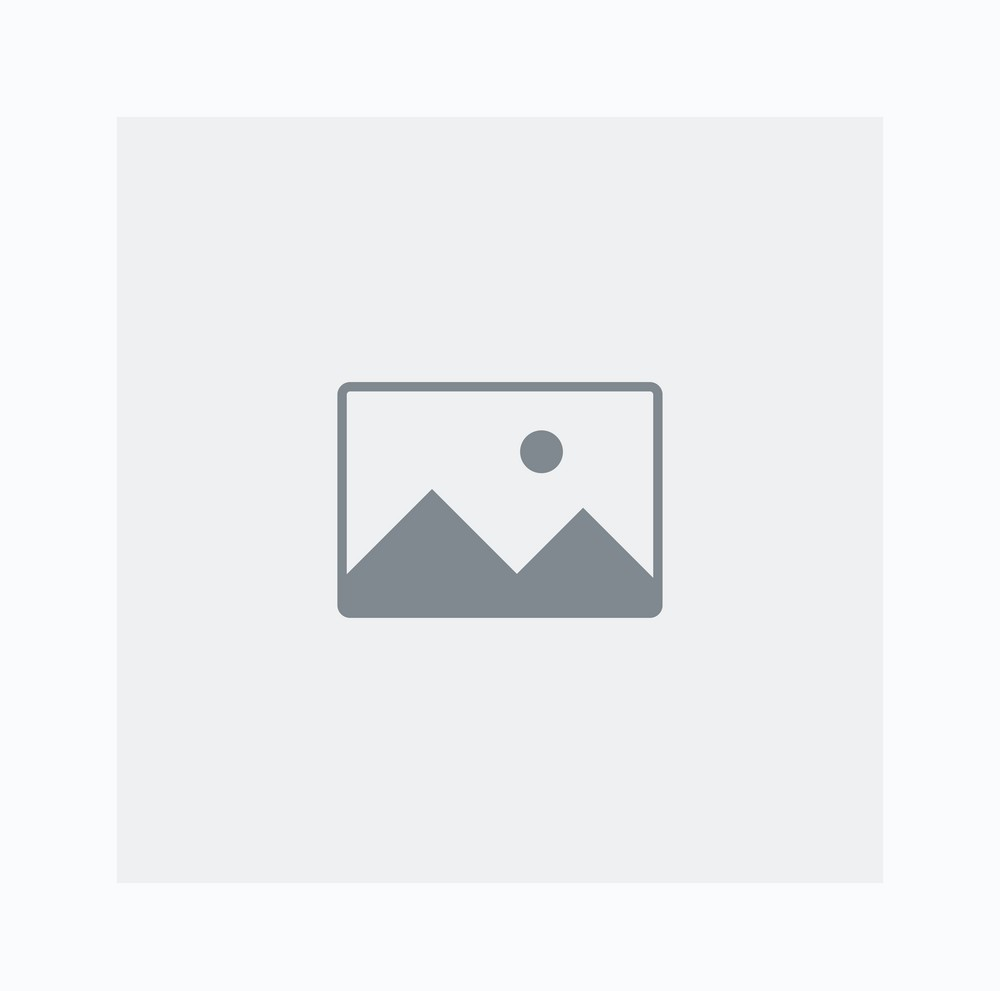
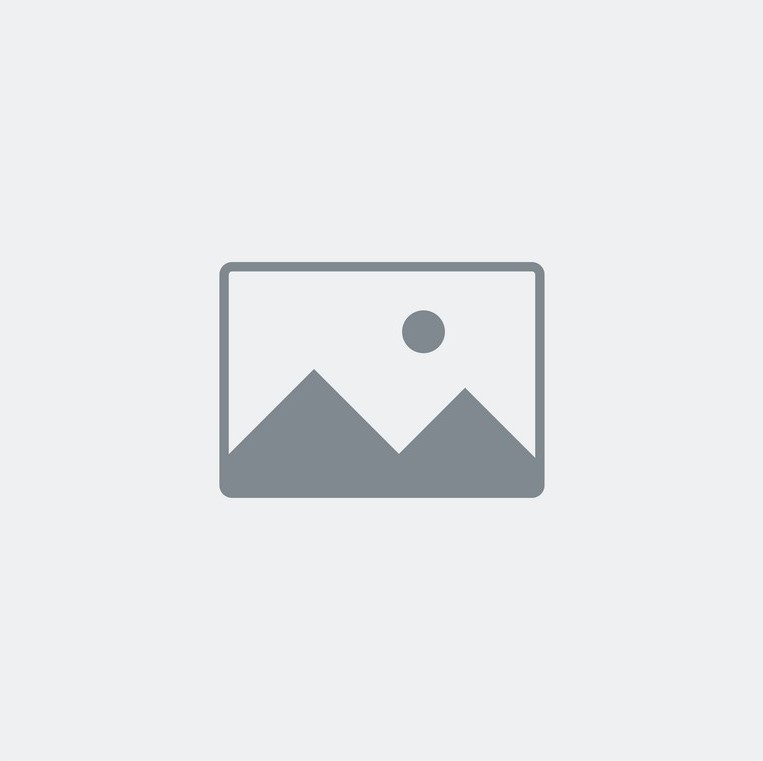
Show posts images or a fallback image in the posts component

Changed region(s): [[0.2713, 0.3325, 0.7235, 0.6649], [0.4522, 0.5138, 0.4823, 0.544]]

diff --git a/src/components/post/index.jsx b/src/components/post/index.jsx
@@ -1,10 +1,19 @@
 import "./post.css";
+import { IMAGE_URL } from "../../api";
 import { Link } from "react-router-dom";
+import { postThumbImg } from "../../assets/imgs";
 
-const Post = ({ img, post }) => {
+const Post = ({ post }) => {
+  const postImage = `${IMAGE_URL}/posts/${post?.photo}`;
+
+  const fallBackImg = (ev) => {
+    ev.onerror = null;
+    ev.currentTarget.src = postThumbImg;
+  };
+
   return (
     <div className="post">
-      <img className="postImg" src={img} alt="" />
+      <img className="postImg" src={postImage} alt="post img" onError={fallBackImg} />
       <div className="postInfo">
         <div className="postCats">
           {post.categories.map((category) => (

diff --git a/src/components/posts/index.jsx b/src/components/posts/index.jsx
@@ -1,12 +1,11 @@
 import "./posts.css";
 import Post from "../post";
-import { post1Img } from "../../assets/imgs";
 
 const Posts = ({ posts }) => {
   return (
     <main className="posts">
       {posts.map((post) => (
-        <Post key={post._id} img={post1Img} post={post} />
+        <Post key={post._id} post={post} />
       ))}
     </main>
   );

diff --git a/src/pages/Home/index.jsx b/src/pages/Home/index.jsx
@@ -13,7 +13,7 @@ const Home = () => {
   useEffect(() => {
     const fetchData = async () => {
       const response = await api.get(`/posts/${search}`);
-      setPosts(response.data);
+      setPosts(response?.data);
     };
     fetchData();
   }, [search]);
